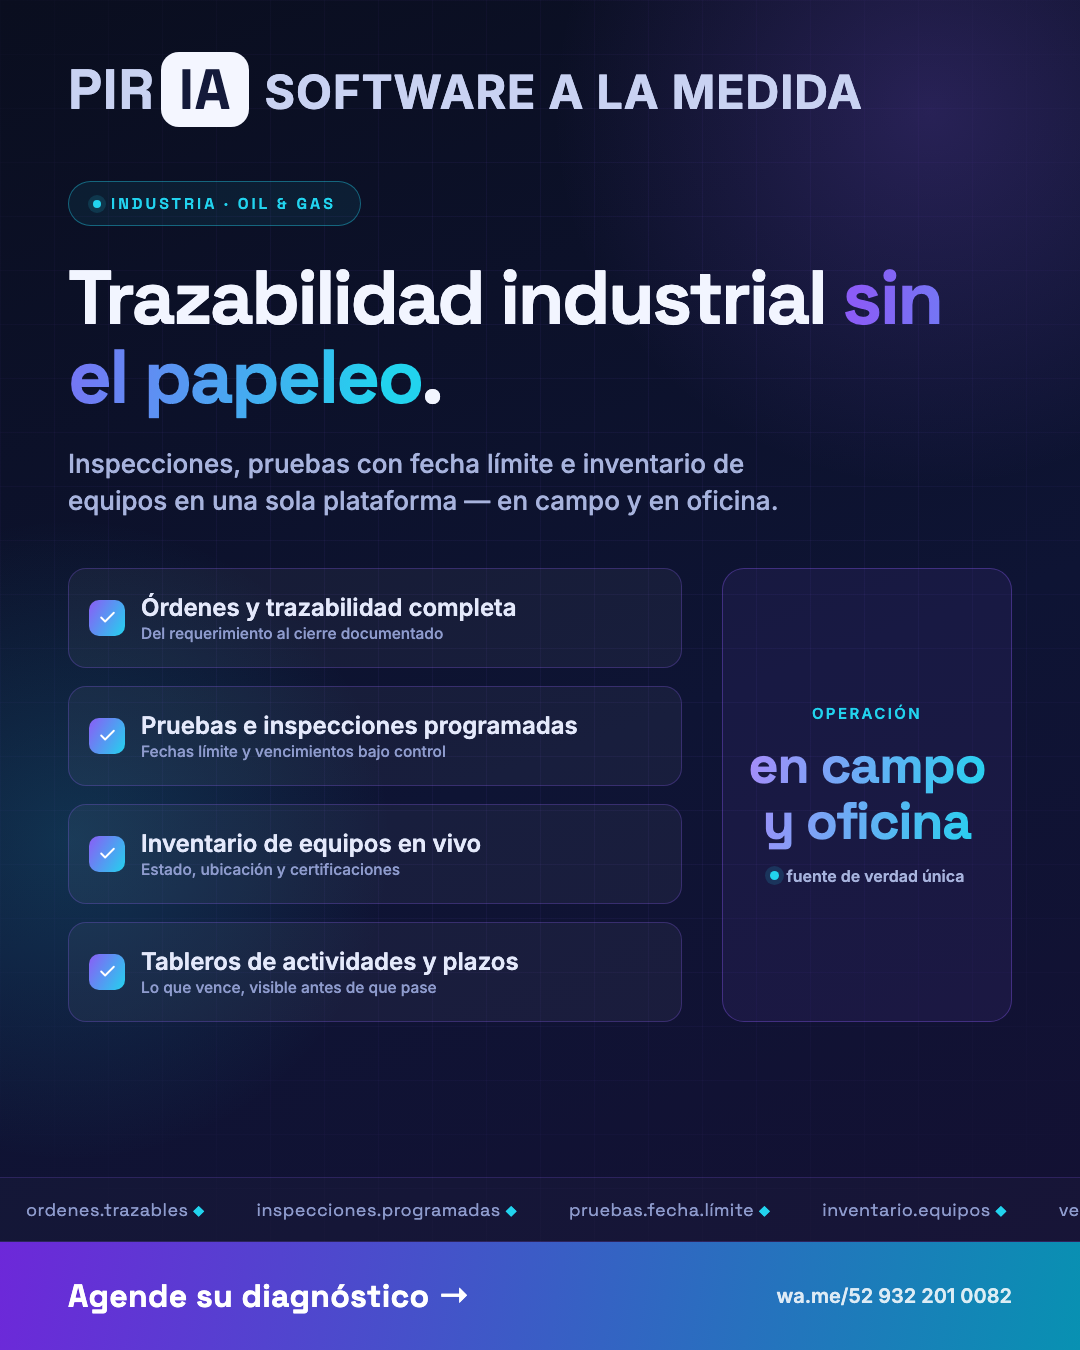
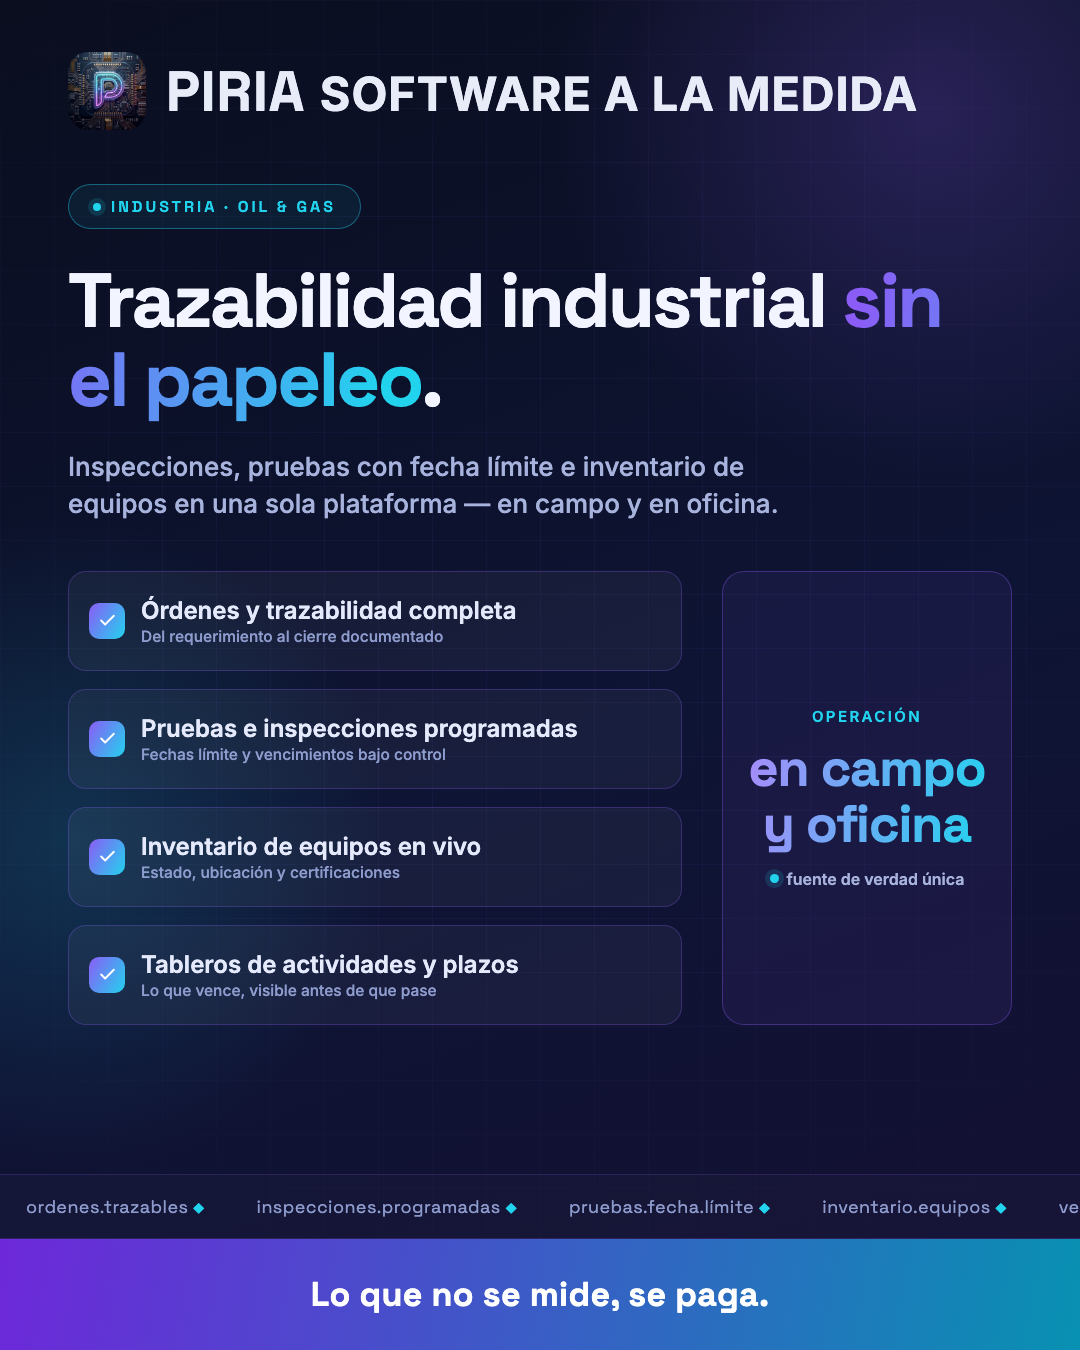
Posts PIRIA con logosímbolo real y punchlines en footer

diff --git a/ejms/piria-empresarial.html b/ejms/piria-empresarial.html
@@ -31,11 +31,8 @@
     position:relative; padding:52px 68px 0;
     display:flex; align-items:center; gap:20px;
   }
-  .wm { font-family:'Space Grotesk'; font-weight:700; font-size:56px; letter-spacing:1px; color:#c9d2f2; }
-  .wm .ia {
-    display:inline-block; background:#f4f6ff; color:#141a3a;
-    border-radius:18px; padding:2px 18px; margin-left:6px;
-  }
+  .plogo { width:78px; height:78px; border-radius:20px; }
+  .wm { font-family:'Space Grotesk'; font-weight:700; font-size:56px; letter-spacing:1px; color:#e8ecf8; }
   header .brand small { display:block; font-size:15px; font-weight:500; color:#7f8fc7; letter-spacing:3px; margin-top:4px; }
 
   .tag {
@@ -119,10 +116,9 @@
     position:relative;
     background:linear-gradient(100deg,#6d28d9,#0891b2);
     padding:34px 68px;
-    display:flex; align-items:center; justify-content:space-between;
+    display:flex; align-items:center; justify-content:center;
   }
-  footer .cta { font-family:'Space Grotesk'; font-weight:700; font-size:32px; color:#fff; letter-spacing:.3px; }
-  footer .wa { font-size:20px; font-weight:600; color:rgba(255,255,255,.85); }
+  footer .cta { font-family:'Space Grotesk'; font-weight:700; font-size:34px; color:#fff; letter-spacing:.3px; text-align:center; }
 </style></head>
 <body>
   <div class="grid"></div>
@@ -130,7 +126,8 @@
   <div class="glow-b"></div>
 
   <header>
-    <div class="wm">PIR<span class="ia">IA</span>
+    <img src="piria-p.jpg" class="plogo" alt="PIRIA">
+    <div class="wm">PIRIA
       <small class="brand" style="font-family:'Inter'">SOFTWARE A LA MEDIDA</small>
     </div>
   </header>
@@ -159,7 +156,6 @@
   </div>
 
   <footer>
-    <div class="cta">Agende su diagnóstico →</div>
-    <div class="wa">wa.me/52 932 201 0082</div>
+    <div class="cta">Menos botones. Más negocio.</div>
   </footer>
 </body></html>

diff --git a/ejms/piria-oilgas.html b/ejms/piria-oilgas.html
@@ -31,11 +31,8 @@
     position:relative; padding:52px 68px 0;
     display:flex; align-items:center; gap:20px;
   }
-  .wm { font-family:'Space Grotesk'; font-weight:700; font-size:56px; letter-spacing:1px; color:#c9d2f2; }
-  .wm .ia {
-    display:inline-block; background:#f4f6ff; color:#141a3a;
-    border-radius:18px; padding:2px 18px; margin-left:6px;
-  }
+  .plogo { width:78px; height:78px; border-radius:20px; }
+  .wm { font-family:'Space Grotesk'; font-weight:700; font-size:56px; letter-spacing:1px; color:#e8ecf8; }
   header .brand small { display:block; font-size:15px; font-weight:500; color:#7f8fc7; letter-spacing:3px; margin-top:4px; }
 
   .tag {
@@ -119,10 +116,9 @@
     position:relative;
     background:linear-gradient(100deg,#6d28d9,#0891b2);
     padding:34px 68px;
-    display:flex; align-items:center; justify-content:space-between;
+    display:flex; align-items:center; justify-content:center;
   }
-  footer .cta { font-family:'Space Grotesk'; font-weight:700; font-size:32px; color:#fff; letter-spacing:.3px; }
-  footer .wa { font-size:20px; font-weight:600; color:rgba(255,255,255,.85); }
+  footer .cta { font-family:'Space Grotesk'; font-weight:700; font-size:34px; color:#fff; letter-spacing:.3px; text-align:center; }
 </style></head>
 <body>
   <div class="grid"></div>
@@ -130,7 +126,8 @@
   <div class="glow-b"></div>
 
   <header>
-    <div class="wm">PIR<span class="ia">IA</span>
+    <img src="piria-p.jpg" class="plogo" alt="PIRIA">
+    <div class="wm">PIRIA
       <small class="brand" style="font-family:'Inter'">SOFTWARE A LA MEDIDA</small>
     </div>
   </header>
@@ -159,7 +156,6 @@
   </div>
 
   <footer>
-    <div class="cta">Agende su diagnóstico →</div>
-    <div class="wa">wa.me/52 932 201 0082</div>
+    <div class="cta">Lo que no se mide, se paga.</div>
   </footer>
 </body></html>
